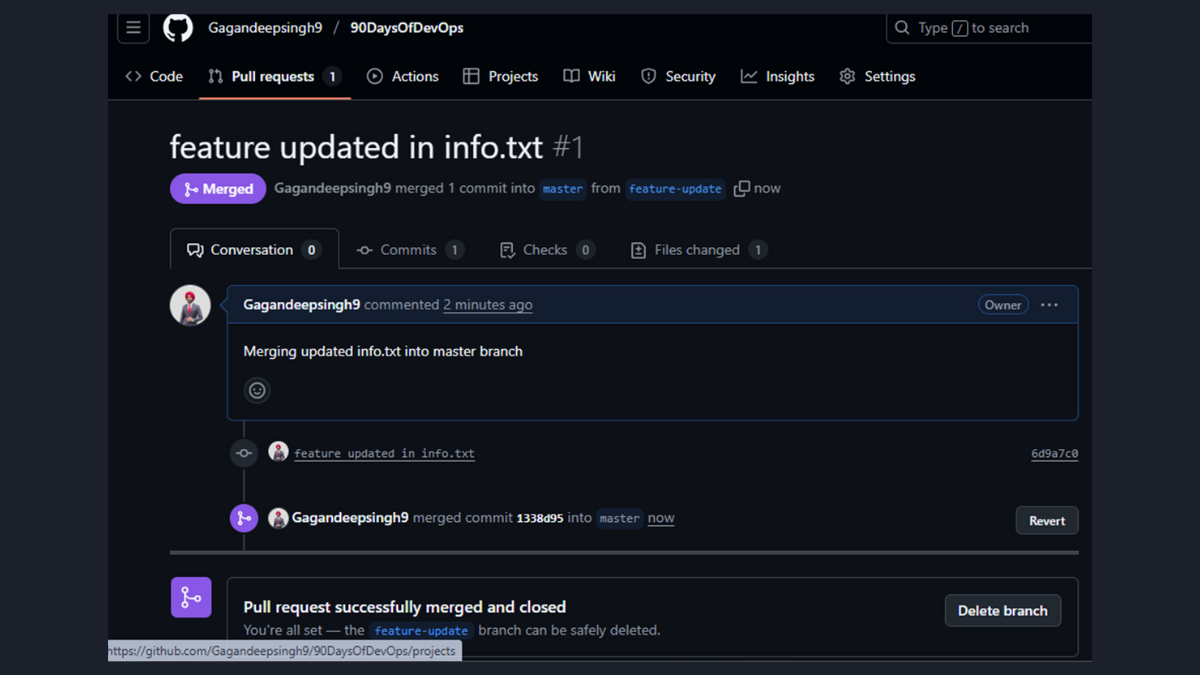
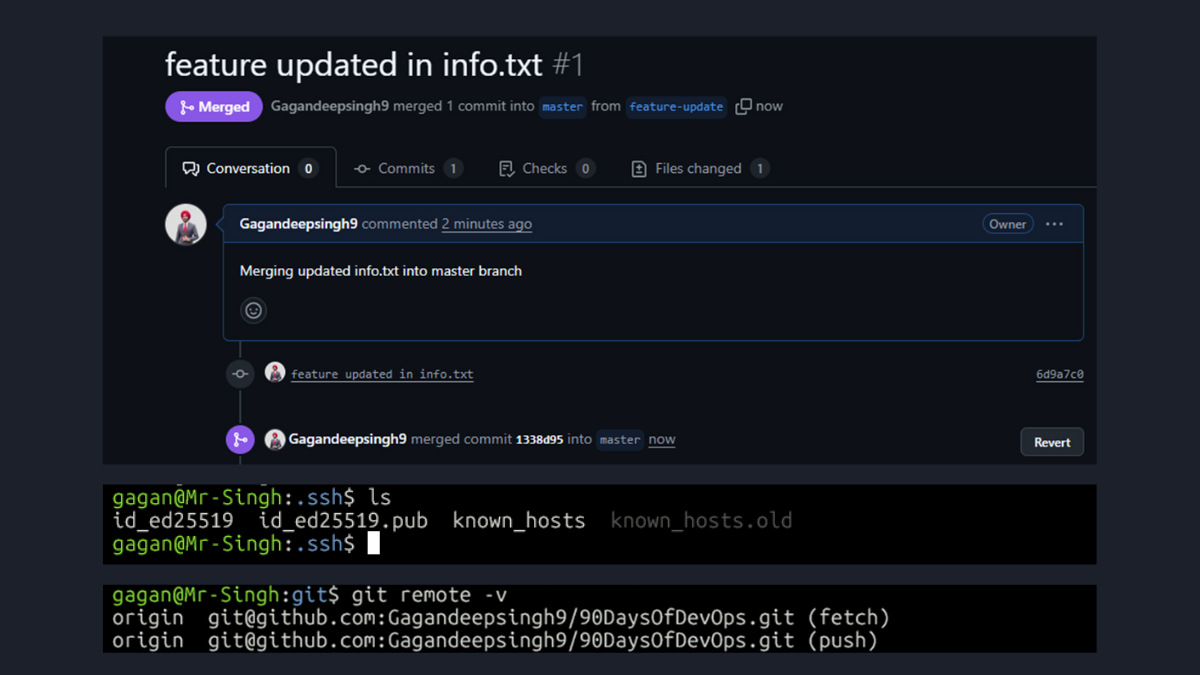
updated week4

diff --git a/Week4-Git-and-Github/readme.md b/Week4-Git-and-Github/readme.md
@@ -12,7 +12,7 @@ All the hands-on work for this challenge was performed in a fork of the official
 #### 1. The Standard Contribution Workflow (Pull Requests)
 I practiced the full, real-world cycle of contributing to a project: I forked the main repository, cloned my fork, created a dedicated `feature-update` branch for my changes, and submitted a Pull Request to have my work reviewed and merged. I finished by syncing my local `master` branch with the updated remote.
 
-*   **Bonus - SSH Authentication:** As part of this workflow, I also completed the bonus task of setting up and using SSH keys. My screenshots show the process of generating an `ed25519` key pair and switching my remote URL from HTTPS to the more secure SSH protocol for pushing changes.
+*   **Bonus - Upgrading to SSH Authentication:** As part of the challenge, I also focused on professional authentication methods. While HTTPS with a Personal Access Token (PAT) works, I set up the more secure and standard SSH method. This works with a key pair: the private key is kept securely on my local machine, while the public key is added to my GitHub account settings.
 
 ![My Merged Pull Request](screenshots/pr-workflow-merged.png)
 
@@ -33,8 +33,8 @@ I practiced using `git stash` to save uncommitted changes when I needed to switc
 
 *   `git stash`: Used to save my changes and clean the working directory.
 *   `git stash list`: Used to view all saved stashes.
-*   `git stash apply`: I demonstrated that this command re-applies the changes but **keeps the stash in the list** for potential reuse.
-*   `git stash pop`: I then demonstrated that this command re-applies the changes and **removes them from the stash list**, which is the most common use case.
+*   `git stash apply`: This command re-applies the changes but **keeps the stash in the list** for potential reuse.
+*   `git stash pop`: This command re-applies the changes and **removes them from the stash list**, which is the most common use case.
 
 ![Using Git Stash to Manage Unfinished Work](screenshots/stash-workflow.png)
 
